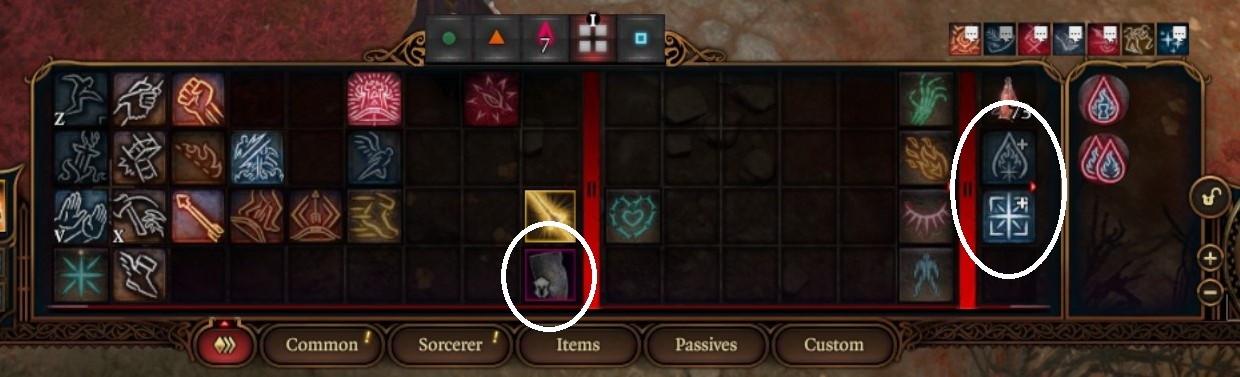
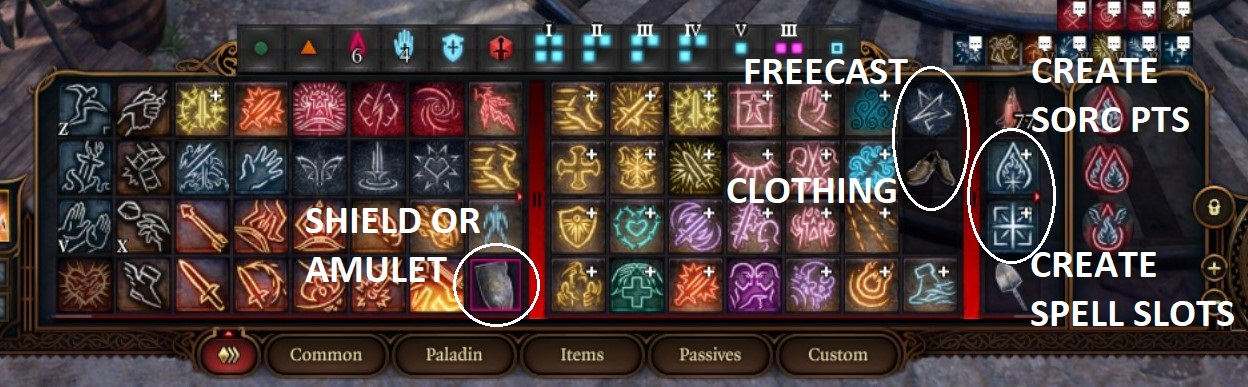
readme updates

diff --git a/Tools/Source/Games/bg3_inf_sorcspell.py b/Tools/Source/Games/bg3_inf_sorcspell.py
@@ -27,6 +27,7 @@ from time import sleep, time, perf_counter
 #################################################
 # CHANGE ONLY THESE VALUES HERE
 
+START_HOTKEY: str = 'shift+r'
 PAUSE_HOTKEY: str = 'p'
 EXIT_HOTKEY: str = 'esc'
 MAX_SPELL_LEVEL: int = 5 # NOTE: this should be the max spell level you can convert from sorc pts
@@ -41,12 +42,12 @@ Current_spellslots_5: int = 1
 Current_sorc_pts: int = 6
 
 # THESE ARE THE TARGET VALUES YOU WANT
-Target_spellslots_1: int = 10
-Target_spellslots_2: int = 10
-Target_spellslots_3: int = 10
-Target_spellslots_4: int = 10
-Target_spellslots_5: int = 30
-Target_sorc_pts: int = 30
+Target_spellslots_1: int = 30
+Target_spellslots_2: int = 30
+Target_spellslots_3: int = 20
+Target_spellslots_4: int = 15
+Target_spellslots_5: int = 10
+Target_sorc_pts: int = 60
 
 #################################################
 
@@ -345,7 +346,7 @@ def main() -> None:
     
     try:
         # add hotkeys
-        add_hotkey('shift+r', macro, args=(using_shield,using_amulet,using_freecast))
+        add_hotkey(START_HOTKEY, macro, args=(using_shield,using_amulet,using_freecast))
         add_hotkey(PAUSE_HOTKEY, toggle_pause)
         add_hotkey(EXIT_HOTKEY, exit)
         

diff --git a/Tools/Source/Games/README.md b/Tools/Source/Games/README.md
@@ -13,16 +13,31 @@ This macro utilizes the infinite sorcery points and spell slots [exploit](https:
 Below are before and after images for a Level 12 Sorcerer.
 
 ![Base](./base.jpg)
-![After](./after.jpg)
+![After with shield](./after-shield.jpg)
 
 It seems that the game stores the maximum number of spell slots as a number, which is inflated by the exploit. I think the reason long-resting does not work in the same manner as Angelic Reprieve potions (which restores health and first and second level spell slots) is that long-resting also resets any party buffs and will hard reset this value to what it is supposed to be (as defined in your class tree(s)).
 
-The macro utilizes this exploit (the second, third, and fourth methods outlined in the video) to give you the amount of spell slots and sorcery points you specify. The fastest method is to use freecast, but that is not available until Act 3, and neither is the amulet. The shield is available from a vendor in Act 2, so that is the earliest this macro can be used. Please note that you can only use the amulet with this macro if you are using a version before Patch 7. The shield and freecast methods both work as of Patch 7.
+The macro utilizes this exploit (the second, third, and fourth methods outlined in the video) to give you the amount of spell slots and sorcery points you specify. The fastest method is to use freecast, but that is not available until Act 3, as is the amulet. The shield is available from a vendor in Act 2, so that is the earliest this macro can be used. Please note that you can only use the amulet with this macro if you are using a version before Patch 7. The shield and freecast methods both work as of Patch 7. As of now, this only works on Windows.
 
-Note that icon positions and subsequent mouse positions in the macro are the measurements I made, so they may not be the same for you. I recommend testing the mouse positions first with `mouse_pos.py`, adjusting the UI to your liking, and updating the coordinates in the script before running the macro. Also be sure to adjust the spell slot and sorcerer point amounts to your liking before using. This macro requires being a Sorcerer of at least level 2. This works with a minimum of 30 FPS (but higher will be more consistent; I like ~45) at 1920x1080 resolution and should work at any point in the game. If the delta between your current and target spell slots is very low, the macro will most likely give you extra first or second level spell slots (depending on if you are using the shield or amulet, not with freecast), since the macro assumes you will have none of the spell slot level the gear gives you. In my testing there has been no accidental icon moving by the macro, but just in case, I recommend locking the U.I.
+Note that icon positions and subsequent mouse positions in the macro are the measurements I made, so they may not be the same for you. I recommend testing the mouse positions first with `mouse_pos.py`, adjusting the U.I. to your liking, and updating the coordinates in the script before running the macro. Also be sure to adjust the spell slot and sorcerer point amounts to your liking before using. In my testing there has been no accidental icon moving by the macro, but just in case, I recommend locking the U.I. 
 
-Before running the macro, unequip any two-handed weapon if you are using one. Remember to check the coordinates of the icons first. Once that is done, you can run `python bg3_inf_sorcspell.py` in a terminal window. Then, make sure the Baldur's Gate 3 window is in focus and press Shift+R. You should see a message in the terminal and the macro will begin shortly. Please note that the macro is so powerful, there is no graceful way of stopping it, so ensure that the Baldur's Gate 3 window remains in focus until the macro is finished. <b>This is not a fast macro if you are using the shield or amulet and want a lot of spell slots,</b> so do not expect it to be done in a minute or two (as an example, the post-run image above took 32 minutes). COMPARE SHIELD VS FREECAST TIMES.
+Here is how the U.I. should be organized if you do not want to do any re-arranging:
+![U.I.](./ui.jpg)
 
-As of now, this only works on Windows.
+This macro requires being a Sorcerer of at least level 2. This works with a minimum of 30 FPS (but higher will be more consistent; I like ~45) at 1920x1080 resolution and should work at any point in the game. If are using the shield or amulet and the delta between your current and target spell slots is less than your current number of slots, the macro will give you extra first or second level spell slots. This is because the macro assumes you will have none of the spell slot level the gear gives you, and because the game will use your base class spell slots before the slot given by the gear. 
 
-![UI](./ui.jpg)
+### Execution Steps:
+1. Check the coordinates of the icons
+2. Update the marked values at the top of the script to what you want
+3. Unequip any two-handed weapon, if you are using one
+4. Open a terminal window and navigate to the script
+5. Run `python bg3_inf_sorcspell.py`
+6. Ensure the Baldur's Gate 3 window is in focus
+7. Activate using the keybind set in Step 2
+
+You should see a message in the terminal and the macro will begin shortly. Please note that the macro is so powerful, there is no graceful way of stopping it, so ensure that the Baldur's Gate 3 window remains in focus until the macro is finished. <b>This is not a fast macro if you are using the shield or amulet and want a lot of spell slots,</b> so do not expect it to be done in a minute or two. It took the following times to create the earlier before/after example:
+
+| shield | freecast |
+| ------ | -------- |
+| 1917.27s (31.95 min) | 375.23s (6.25 min)
+
